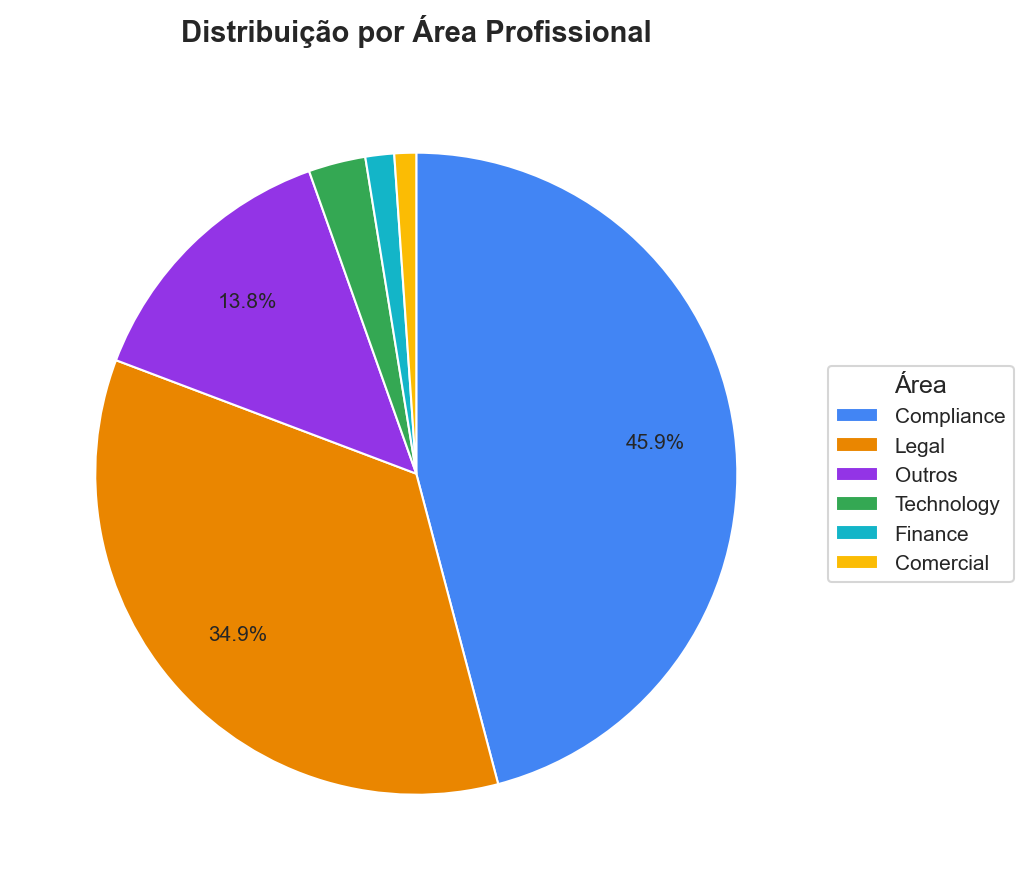
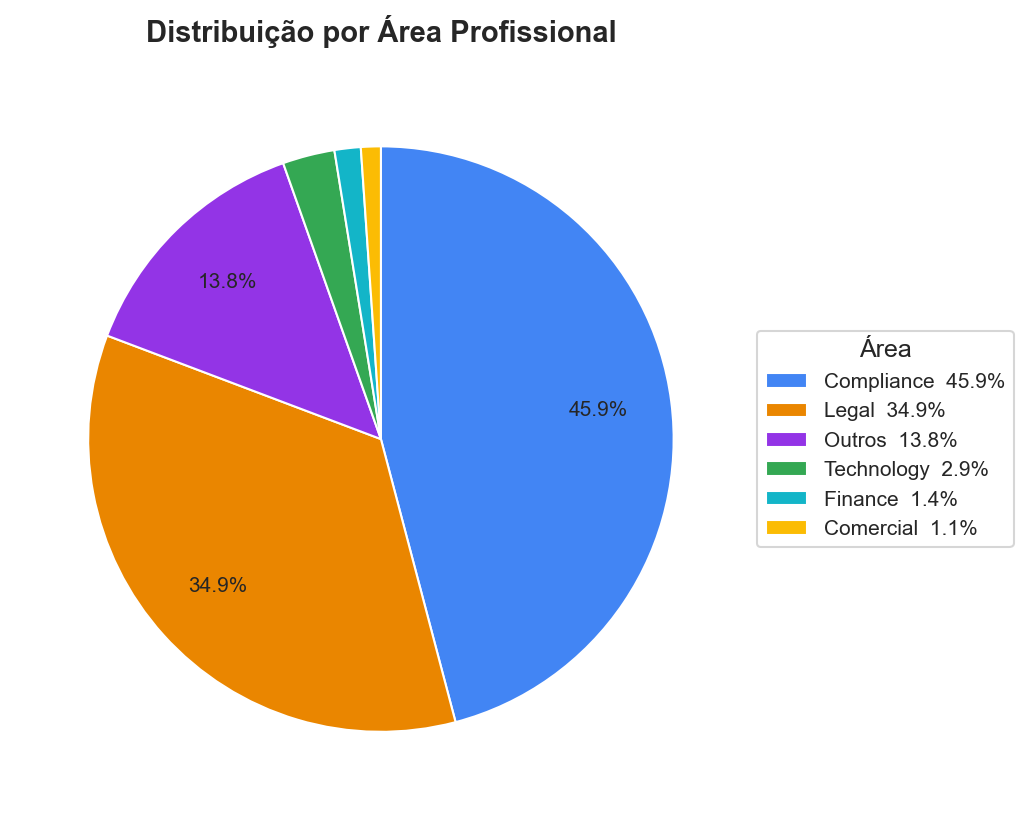
style: mostrar todas as percentagens no grafico pizza via legenda
Fatias grandes (>=4%) mostram percentagem dentro da fatia.
Fatias pequenas mostram percentagem na legenda lateral.
Nenhuma informacao omitida, sem sobreposicao de labels.

diff --git a/scripts/03_visualizacoes.py b/scripts/03_visualizacoes.py
@@ -100,13 +100,14 @@ def grafico4(df):
     por_area = df["area"].value_counts()
     colors = LOOKER_PIE[:len(por_area)]
     fig, ax = plt.subplots(figsize=(7, 7))
-    def autopct_hide_small(pct):
+    def autopct_large_only(pct):
         return f"{pct:.1f}%" if pct >= 4.0 else ""
 
+    total = por_area.values.sum()
     wedges, texts, autotexts = ax.pie(
         por_area.values,
         labels=None,
-        autopct=autopct_hide_small,
+        autopct=autopct_large_only,
         colors=colors,
         startangle=90,
         counterclock=False,
@@ -114,9 +115,14 @@ def grafico4(df):
     )
     for text in autotexts:
         text.set_fontsize(10)
+    # Legenda com percentagem em todas as categorias (incluindo as pequenas)
+    legend_labels = [
+        f"{area}  {val/total*100:.1f}%"
+        for area, val in zip(por_area.index, por_area.values)
+    ]
     ax.legend(
         wedges,
-        por_area.index,
+        legend_labels,
         title="Área",
         loc="center left",
         bbox_to_anchor=(1, 0, 0.5, 1),